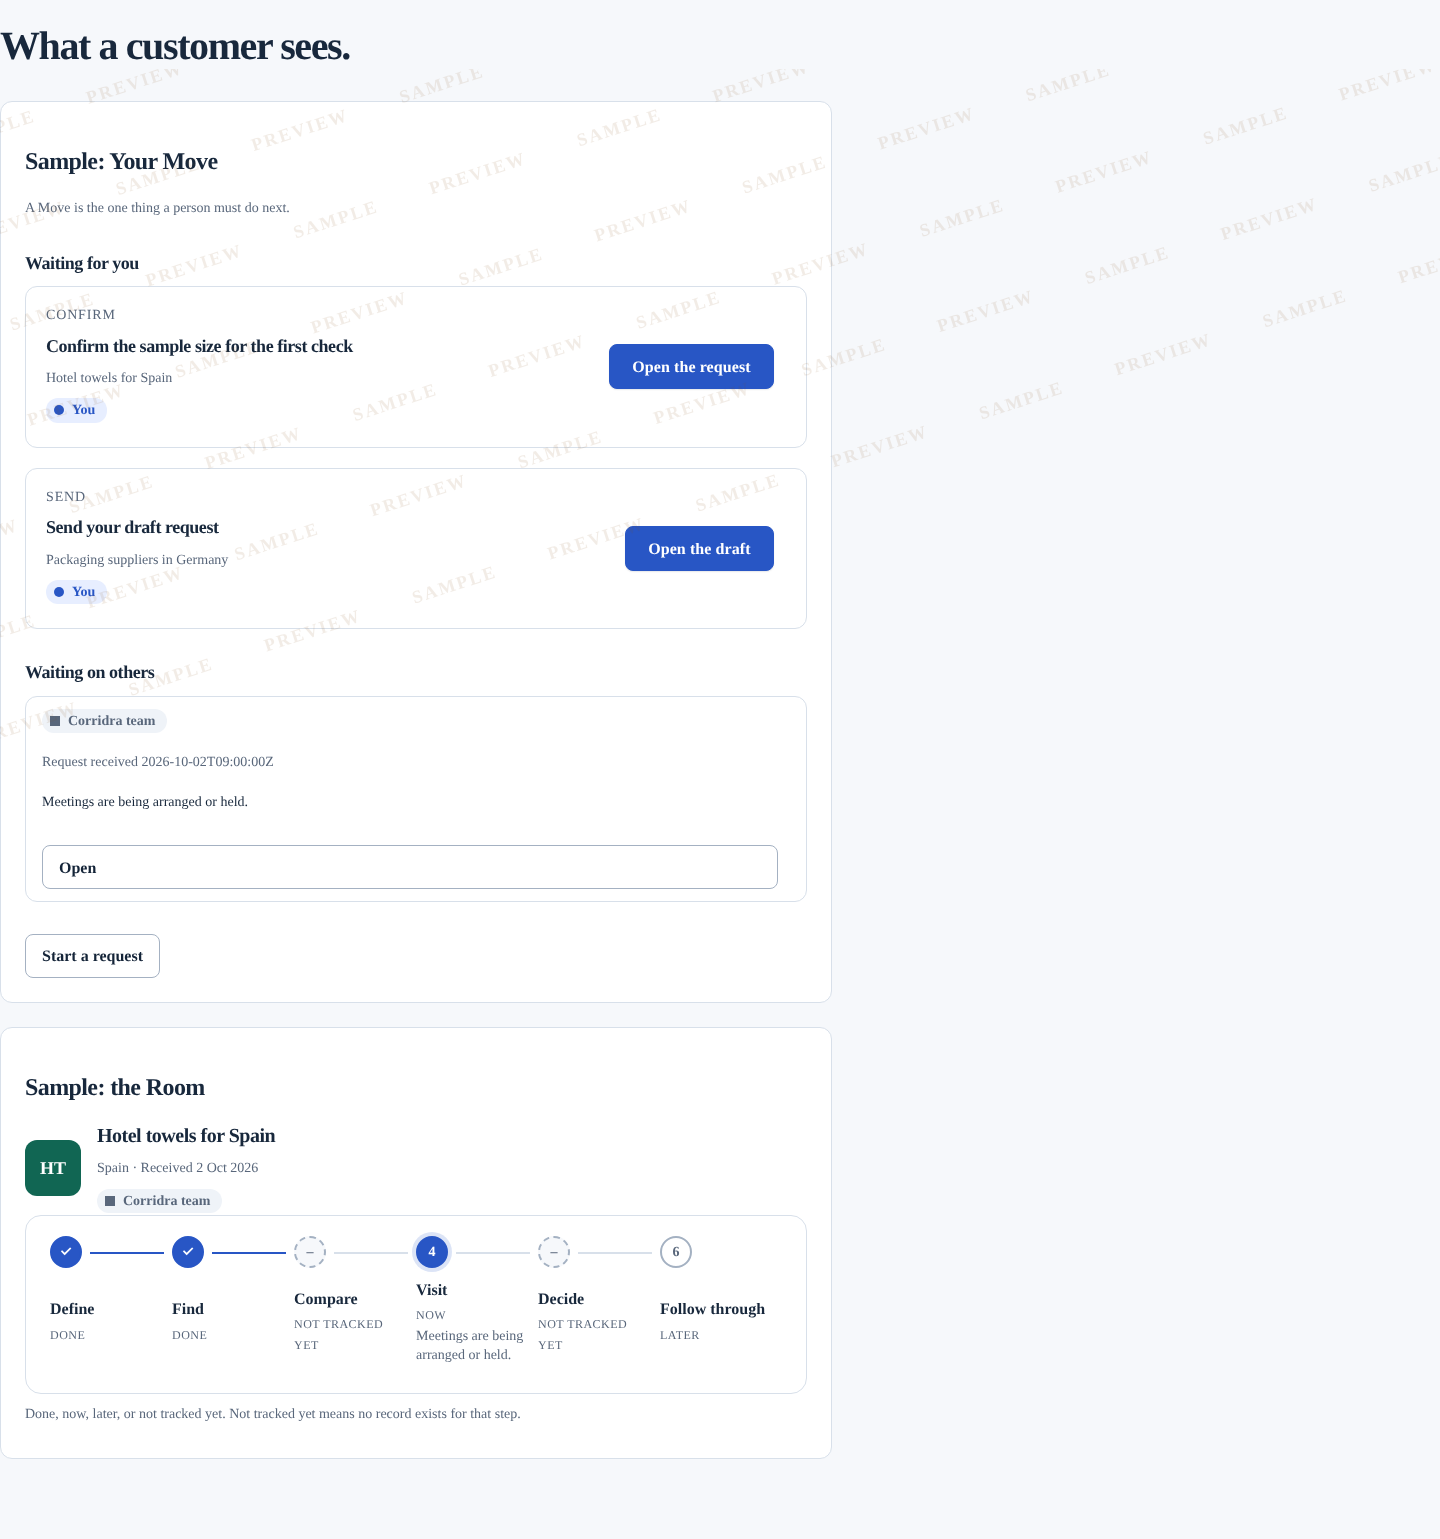
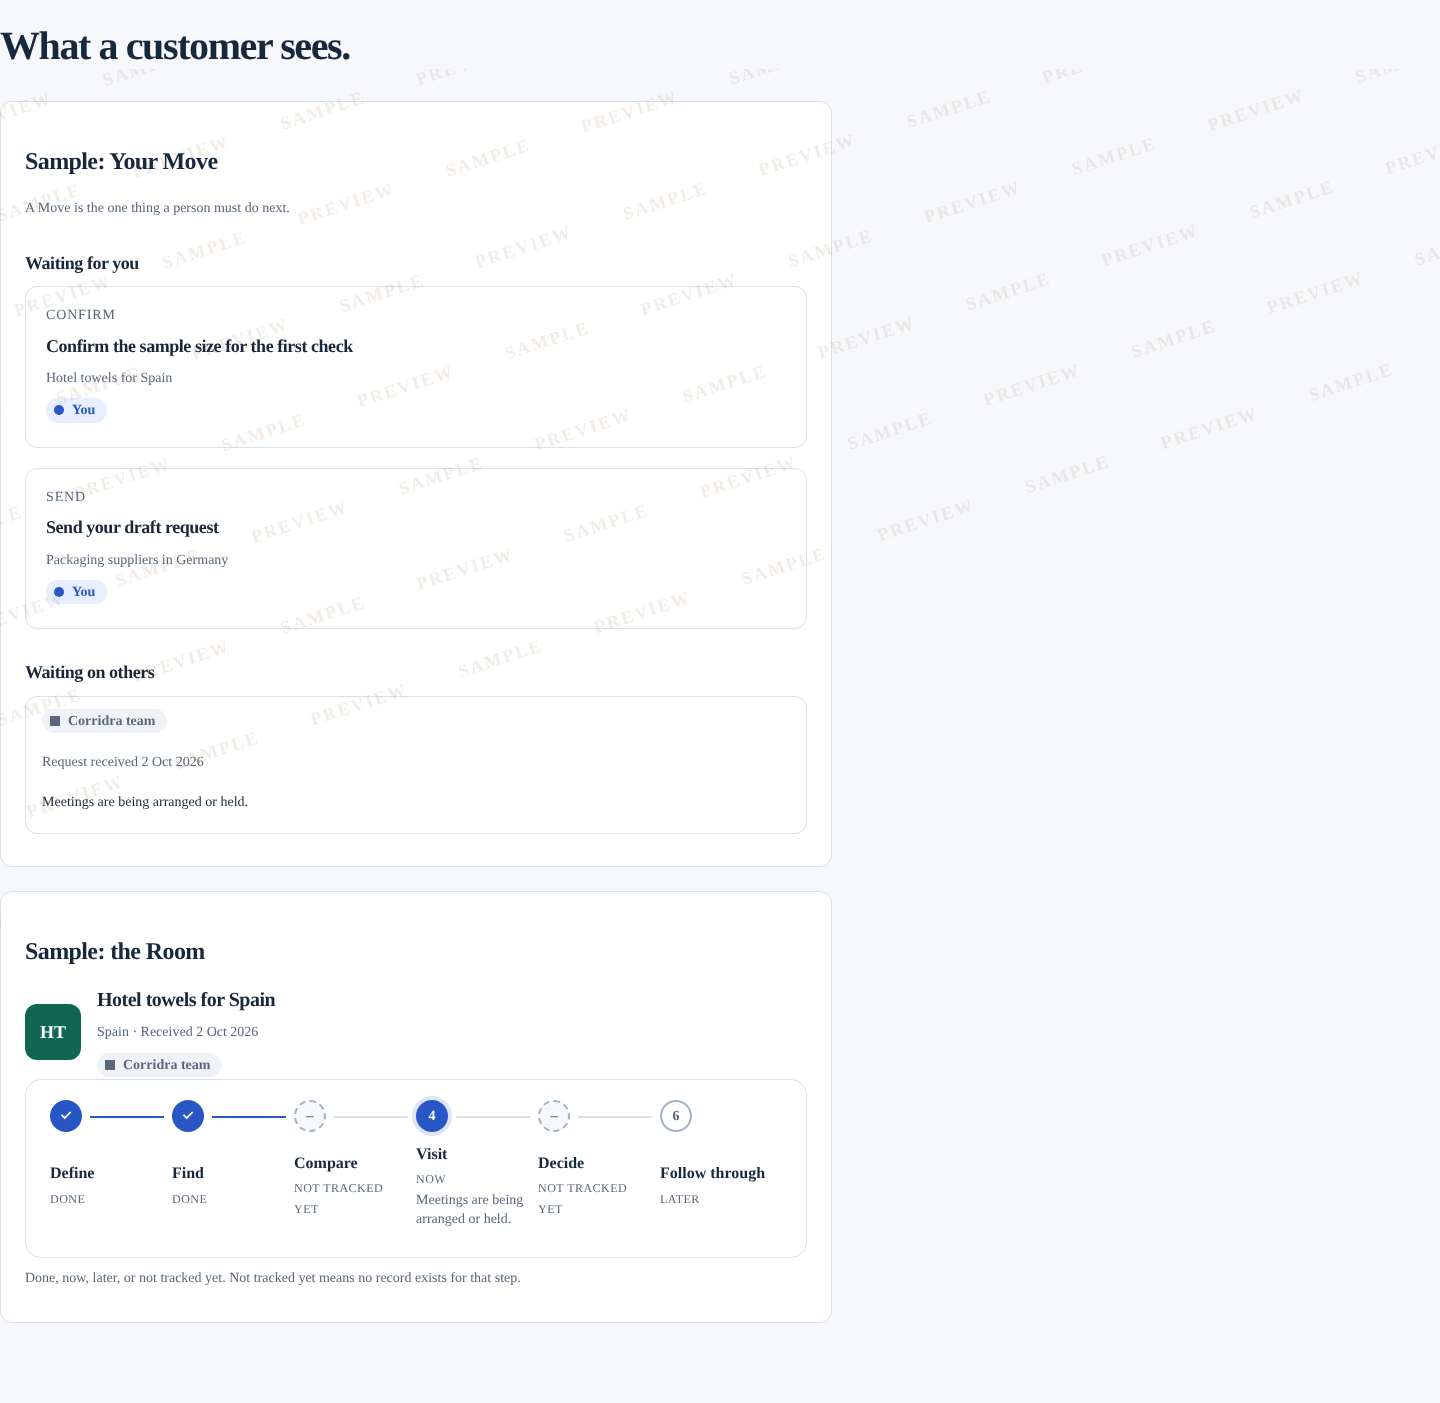
fix(ux): findings from an independent review of Lanes 9 and 12
The Operations panel now loads from the section it is shown for, so /operator/dashboard and the other four
operations addresses load their data as the # form does. The customer preview samples draw the real Move card,
holder badge and Road with no link, button or form and read nothing from the browser, so the protected view-as
test passes with the switch on. Each fair's name on the fairs list is a real 44 px link. The sign-in link on the
Money panel no longer preloads. The Lane 9 doc says which of these touch pages with the switch off.

Claude-Session: https://claude.ai/code/session_01WFZBZ1EaFq3EDRAf4xaZkC

diff --git a/apps/web/app/operator/view-as/[role]/sample-screens.tsx b/apps/web/app/operator/view-as/[role]/sample-screens.tsx
@@ -1,49 +1,18 @@
-import { MoveView } from '../../../account/move/move-view';
-import { HolderBadge, Road } from '../../../../components/mr';
+import { HolderBadge, MoveCard, Road, mrLabels } from '../../../../components/mr';
 import { emblemFor } from '../../../../lib/room';
-import type { MoveModel } from '../../../../lib/move-cards';
+import { fill } from '../../../../lib/i18n/fill';
+import { translate, type MessageKey } from '../../../../lib/i18n/messages';
+import '../../../account/move/move-view.css';
 import '../../../account/rooms/[requestId]/room-view.css';
 
-// View as, stage 2 (Lane 9): the real Your Move screen and the Room's header and Road, drawn from fixed
-// sample data and placed inside the preview's inert stage, so nothing in them can be pressed, focused or
-// sent. The sample is invented here and read from nowhere: no request, no account, no record. This file
-// stays a plain server component (the preview folder holds no client code of its own); the real screens
-// it draws are imported from where they live.
-const sampleMove: MoveModel = {
-  cards: [
-    {
-      id: 'sample-move',
-      kind: 'move',
-      verb: 'Confirm',
-      holder: 'you',
-      context: 'Hotel towels for Spain',
-      href: '#',
-      object: 'the sample size for the first check',
-      dueOn: null,
-    },
-    {
-      id: 'sample-draft',
-      kind: 'draft',
-      verb: 'Add',
-      holder: 'you',
-      context: 'Packaging suppliers in Germany',
-      href: '#',
-    },
-  ],
-  waiting: [
-    {
-      id: 'sample-waiting',
-      holder: 'team',
-      kind: 'request',
-      title: null,
-      status: 'MEETINGS',
-      received: '2026-10-02',
-      href: '#',
-    },
-  ],
-  replyCandidates: [],
-  latest: null,
-};
+// View as, stage 2 (Lane 9): the Your Move screen and the Room's header and Road, drawn from fixed sample
+// data and placed inside the preview's inert stage, so nothing in them can be pressed, focused or sent.
+// The sample is invented here and read from nowhere: no request, no account, no record, and nothing from
+// this browser either. The preview holds nothing that can act, so these are the same Move cards, holder
+// badges and Road as the real screens, drawn with no link and no button (the real Your Move screen is a
+// client component with links and a "forget" button, so it is not used here). This file stays a plain
+// server component: the preview folder holds no client code of its own.
+const say = (key: MessageKey) => translate('en', key);
 
 const roomTitle = 'Hotel towels for Spain';
 
@@ -53,7 +22,46 @@ export function SampleScreens() {
     <>
       <section className="view-as-card" aria-label="Sample Your Move screen">
         <h2>Sample: Your Move</h2>
-        <MoveView model={sampleMove} startHref="#" />
+        <div className="move-view" lang="en" dir="ltr">
+          <p className="move-explainer">{mrLabels.move.explainer}</p>
+          <section aria-labelledby="sample-move-you">
+            <h2 id="sample-move-you">{say('move.you.heading')}</h2>
+            <ul className="move-list">
+              <li>
+                <MoveCard
+                  verb="Confirm"
+                  object="the sample size for the first check"
+                  title="Confirm the sample size for the first check"
+                  titleLang="en"
+                  holder="you"
+                  context="Hotel towels for Spain"
+                />
+              </li>
+              <li>
+                <MoveCard
+                  verb="Send"
+                  object={say('move.card.draft.object')}
+                  holder="you"
+                  context="Packaging suppliers in Germany"
+                />
+              </li>
+            </ul>
+          </section>
+          <section aria-labelledby="sample-move-others">
+            <h2 id="sample-move-others">{say('move.others.heading')}</h2>
+            <ul className="move-list">
+              <li className="move-wait">
+                <p>
+                  <HolderBadge holder="team" />
+                </p>
+                <p className="move-wait-title">
+                  {fill(say('move.received'), { date: '2 Oct 2026' })}
+                </p>
+                <p>{mrLabels.road.sublines.MEETINGS}</p>
+              </li>
+            </ul>
+          </section>
+        </div>
       </section>
       <section className="view-as-card" aria-label="Sample Room">
         <h2>Sample: the Room</h2>

diff --git a/tests/operator/ux-view-as-samples.spec.ts b/tests/operator/ux-view-as-samples.spec.ts
@@ -5,10 +5,11 @@ import { readFileSync } from 'node:fs';
 import { resolve } from 'node:path';
 import AxeBuilder from '@axe-core/playwright';
 
-// View as, stage 2 (Lane 9): the real Your Move screen and the Room header and Road drawn from fixed
-// sample data inside the preview's inert stage, with the real stylesheets. What is proved: the samples
-// are the real components, nothing in them can be pressed or focused, they say they are samples, and
-// they fit a phone. No database, no sign-in.
+// View as, stage 2 (Lane 9): the Your Move cards and the Room header and Road drawn from fixed sample
+// data inside the preview's inert stage, with the real stylesheets. What is proved: the samples use the
+// real Move card, holder badge and Road, they hold no link, button or form (the preview must hold
+// nothing that can act), nothing in them can be pressed or focused, and they fit a phone. No database,
+// no sign-in.
 let server: Server, origin: string;
 let bundle = '';
 let componentCss = '';
@@ -94,7 +95,7 @@ test.afterAll(async () => {
   await new Promise<void>((done) => server.close(() => done()));
 });
 
-test('the real Your Move and Room are drawn from sample data and say so', async ({ page }) => {
+test('the Move cards and the Room are drawn from sample data and say so', async ({ page }) => {
   await page.goto(origin);
   await expect(page.getByRole('heading', { name: 'Sample: Your Move' })).toBeVisible();
   await expect(page.getByRole('heading', { name: 'Sample: the Room' })).toBeVisible();
@@ -107,23 +108,24 @@ test('the real Your Move and Room are drawn from sample data and say so', async 
   await expect(page.locator('.room-emblem')).toHaveText('HT');
 });
 
-test('nothing in the samples can be pressed or focused', async ({ page }) => {
+test('nothing in the samples can be pressed or focused, and there is no link or button to press', async ({
+  page,
+}) => {
   await page.goto(origin);
   await expect(page.locator('.view-as-content')).toHaveAttribute('inert', '');
+  // The same rule the protected preview test holds the real page to.
+  await expect(page.locator('main a, main button, main form, main input')).toHaveCount(0);
+  // Nothing is read from this browser: a stored "read" mark makes no Forget button appear.
+  await page.evaluate(() => localStorage.setItem('corridra.move.seen', '{"x":"2026-10-01"}'));
+  await page.reload();
+  await expect(page.getByRole('heading', { name: 'Sample: Your Move' })).toBeVisible();
+  await expect(page.locator('main button')).toHaveCount(0);
   // Press Tab through the page: focus never lands inside the stage.
   for (let i = 0; i < 12; i++) {
     await page.keyboard.press('Tab');
     const inside = await page.evaluate(() => !!document.activeElement?.closest('.view-as-content'));
     expect(inside).toBe(false);
   }
-  // A click on a card goes nowhere: the address does not change.
-  const before = page.url();
-  await page
-    .locator('.view-as-content a, .view-as-content button')
-    .first()
-    .click({ force: true, trial: false })
-    .catch(() => undefined);
-  expect(page.url()).toBe(before);
 });
 
 for (const width of [320, 390, 768, 1440]) {

diff --git a/tests/integration/ux-operator-urls.test.ts b/tests/integration/ux-operator-urls.test.ts
@@ -131,5 +131,16 @@ describe('every switch-off path', () => {
     // A plain server component with fixed invented data: the preview folder holds no client code.
     expect(samples).not.toMatch(/['"]use (client|server)['"]/);
     expect(samples).not.toMatch(/fetch\(|XMLHttpRequest|sendBeacon|localStorage|cookie/);
+    // The protected preview rule: nothing that can act, so no link, no button and no form, and no
+    // reading of this browser (the real Your Move screen has links and a "forget" button, so it is not used).
+    expect(samples).not.toMatch(/<(Link|a|button|form|input)\b|href=|MoveView/);
+    expect(samples).toContain('<MoveCard');
+  });
+  it('the Operations panel loads from the section it is shown for, so a section address loads it as a # part does', () => {
+    const operations = read('apps/web/app/operator/operations.tsx');
+    expect(operations).toContain('}, [section, load]);');
+    expect(operations).not.toMatch(/window\.location\.hash|hashchange/);
+    // The workspace hands it the section that follows the # part and, with the switch on, the address.
+    expect(read('apps/web/app/operator/workspace.tsx')).toContain('section={fragment}');
   });
 });

diff --git a/apps/web/app/operator/operations.tsx b/apps/web/app/operator/operations.tsx
@@ -302,23 +302,17 @@ export function Operations({
     },
     [admin, request],
   );
+  // The workspace passes the section it is showing, which follows the address hash and, with the section
+  // addresses on, the path (/operator/dashboard). Reading the section rather than the hash loads the same
+  // data from either address.
   useEffect(() => {
-    const navigate = () => {
-      if (
-        [
-          '#workspace-operations',
-          '#ops-dashboard',
-          '#ops-center',
-          '#ops-health',
-          '#ops-gates',
-        ].includes(window.location.hash)
+    if (
+      ['workspace-operations', 'ops-dashboard', 'ops-center', 'ops-health', 'ops-gates'].includes(
+        section,
       )
-        void load(currentFilters.current);
-    };
-    navigate();
-    window.addEventListener('hashchange', navigate);
-    return () => window.removeEventListener('hashchange', navigate);
-  }, [load]);
+    )
+      void load(currentFilters.current);
+  }, [section, load]);
   async function send(command: Row, form?: HTMLFormElement) {
     const fingerprint = JSON.stringify(command);
     if (pending.current && pending.current.fingerprint !== fingerprint) {

diff --git a/tests/operator/ux-fairs.spec.ts b/tests/operator/ux-fairs.spec.ts
@@ -137,6 +137,19 @@ test('the list shows the next checked date, the days to it and the day it was la
   await expect(page.getByText('Dates last checked 2026-10-21')).toBeVisible();
 });
 
+test("each fair's name is a link with a 44 pixel target that looks like a link", async ({
+  page,
+}) => {
+  await page.setViewportSize({ width: 390, height: 800 });
+  await go(page, [fair]);
+  const link = page.getByRole('link', { name: 'Example Trade Fair' });
+  const box = await link.boundingBox();
+  expect(box!.height).toBeGreaterThanOrEqual(43.5);
+  expect(await link.evaluate((node) => getComputedStyle(node).textDecorationLine)).toBe(
+    'underline',
+  );
+});
+
 test('a fair with nothing still to come says no date has been checked, not a guess', async ({
   page,
 }) => {

diff --git a/apps/web/app/operator/opportunities.tsx b/apps/web/app/operator/opportunities.tsx
@@ -646,8 +646,10 @@ export function CommercialProgress({ tenant, revision }: { tenant: string; revis
       )}
       {['owner', 'admin'].includes(data.role) && data.enabled && !data.freshMfa && (
         <p>
-          <Link href="/operator/signin">Sign in and verify your authenticator again</Link> before
-          confirming cash, correcting money or rebuilding reports.
+          <Link prefetch={false} href="/operator/signin">
+            Sign in and verify your authenticator again
+          </Link>{' '}
+          before confirming cash, correcting money or rebuilding reports.
         </p>
       )}
       {manage && (

diff --git a/apps/web/app/fairs/fairs.css b/apps/web/app/fairs/fairs.css
@@ -19,6 +19,14 @@
   margin: 0 0 var(--space-1);
   font-size: var(--text-lg);
 }
+.fairs-list h2 a {
+  display: inline-block;
+  min-height: 44px;
+  padding-block: var(--space-2);
+  text-decoration: underline;
+  text-decoration-color: var(--line);
+  text-underline-offset: 6px;
+}
 .fairs-list p,
 .fairs-dates dd {
   margin: var(--space-1) 0 0;

diff --git a/docs/product/lane9-operator-urls.md b/docs/product/lane9-operator-urls.md
@@ -4,13 +4,13 @@ Status: built and dark, 25 October 2026. Switch `CORRIDRA_UX_OPERATOR_URLS`, off
 
 ## What changes when the switch is on
 
-| Part              | What it does                                                                                                                                                                                                                        |
-| ----------------- | ----------------------------------------------------------------------------------------------------------------------------------------------------------------------------------------------------------------------------------- |
-| Section addresses | Each of the 18 workspace sections opens at its own address, for example `/operator/missions` or `/operator/readiness`. The page is the same workspace with that section selected. The 18 ids and every mounted panel are unchanged. |
-| Old links         | `#workspace-...` links keep working everywhere. A `#` part always wins over the address, so a link inside a section address still switches section.                                                                                 |
-| Signed out        | A section address sends a signed-out person to the same sign-in, and back to the same section afterwards. The list of places sign-in may return to is not widened.                                                                  |
-| Tenant switch     | Switching workspace on a section address keeps the person on that section.                                                                                                                                                          |
-| View as, stage 2  | The customer preview also shows the real Your Move screen and the Room's header and Road, drawn from fixed sample data inside the preview's inert stage. Nothing in them can be pressed, focused or sent.                           |
+| Part              | What it does                                                                                                                                                                                                                                                                     |
+| ----------------- | -------------------------------------------------------------------------------------------------------------------------------------------------------------------------------------------------------------------------------------------------------------------------------- |
+| Section addresses | Each of the 18 workspace sections opens at its own address, for example `/operator/missions` or `/operator/readiness`. The page is the same workspace with that section selected. The 18 ids and every mounted panel are unchanged.                                              |
+| Old links         | `#workspace-...` links keep working everywhere. A `#` part always wins over the address, so a link inside a section address still switches section.                                                                                                                              |
+| Signed out        | A section address sends a signed-out person to the same sign-in, and back to the same section afterwards. The list of places sign-in may return to is not widened.                                                                                                               |
+| Tenant switch     | Switching workspace on a section address keeps the person on that section.                                                                                                                                                                                                       |
+| View as, stage 2  | The customer preview also shows Your Move and the Room's header and Road, drawn from fixed sample data inside the preview's inert stage, with the real Move card, holder badge and Road. They hold no link, button or form, and nothing in them can be pressed, focused or sent. |
 
 ## The addresses
 
@@ -30,7 +30,9 @@ The words `owner`, `setup`, `signin`, `forgot-password`, `reset-password` and `v
 
 - `/operator` renders from the same code as before, moved into one shared file so the two addresses cannot drift. Every unavailable state keeps its words.
 - The role check is the one the hash links already used: a section the person's role may not see shows the same notice and the section directory.
-- No protected operator or view-as test was edited. The view-as test that keeps the preview folder free of client code still passes: the sample file is a plain server component and imports the real screens from where they live.
+- No protected operator or view-as test was edited, and both pass with the switch on: the sample file is a plain server component that draws the real Move card, holder badge and Road with no link, button or form (the real Your Move screen is a client component with links and a "forget" button that reads this browser, so the preview does not use it).
+- The Operations panel (Dashboard, Control center, Health, Readiness) loads its data from the section it is shown for, not from the address hash, so `/operator/dashboard` loads it exactly as `/operator#ops-dashboard` does. This changes one effect in `operations.tsx`; with the switch off the section follows the # part as before, so the panel loads at the same moments.
+- The one other change that is not behind the switch: the "Sign in and verify your authenticator again" link on the Money panel is now a `Link` with preloading off (the lint rule that guards pages with a dynamic route requires it once `/operator/[section]` exists). It goes to the same address; the difference is that the browser changes page without a full reload.
 
 ## Not built, and why
 
@@ -47,5 +49,5 @@ Unset the switch. Nothing is stored and nothing is migrated.
 ## Verification
 
 - Unit suite `ux-operator-urls.test.ts`: the table covers all 18 sections with unique words, no word equals a real folder, junk and prototype names are refused, a `#` part wins, the sign-in return list is unchanged, every switch-off path.
-- Operator spec `ux-view-as-samples.spec.ts` (6 tests): the real components with sample data, focus never enters the inert stage, no sideways scroll and no accessibility violation at 320, 390, 768 and 1440 px. Screenshots in `docs/design-system/evidence/lane9-operator-urls/`.
+- Operator spec `ux-view-as-samples.spec.ts` (6 tests): the real Move card and Road with sample data, no link or button or form on the page, a stored "read" mark in this browser changes nothing, focus never enters the inert stage, no sideways scroll and no accessibility violation at 320, 390, 768 and 1440 px. Screenshots in `docs/design-system/evidence/lane9-operator-urls/`.
 - Built app with the switch on: a section address redirects a signed-out visit to sign-in, an unknown word is "not found", and with the switch off every section address is "not found" (see the work log).
